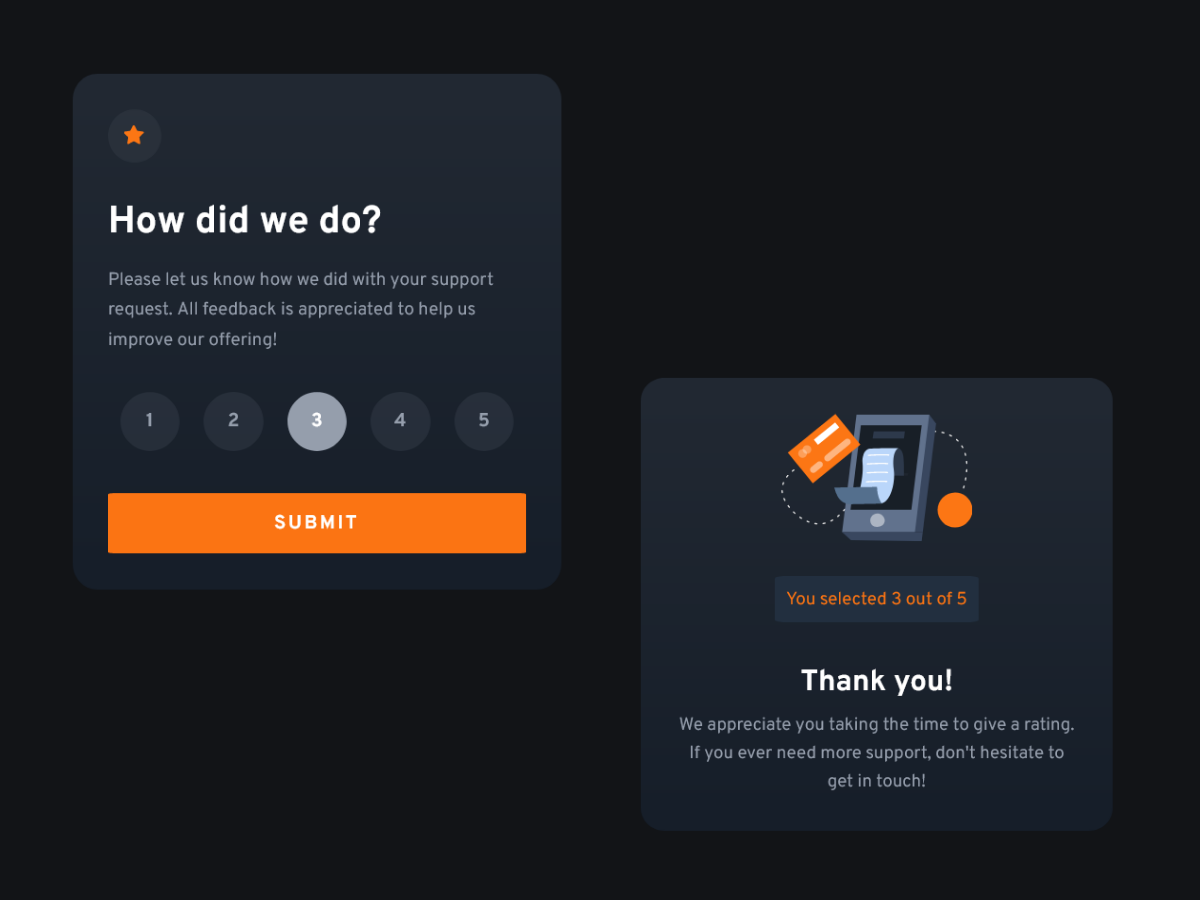
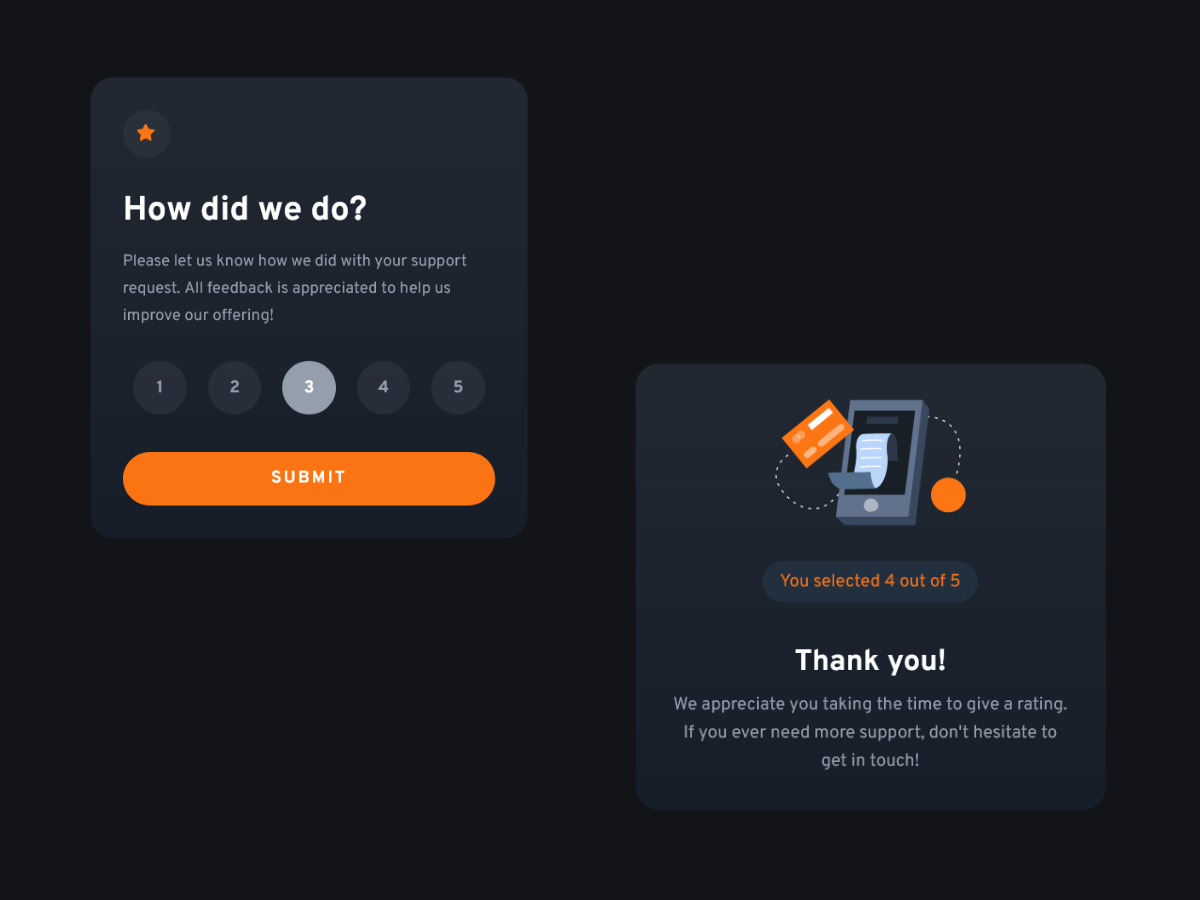
changed border radius of buttons

Changed region(s): [[0.0617, 0.0622, 0.4933, 0.6222], [0.5242, 0.4044, 0.925, 0.6844], [0.555, 0.7156, 0.8942, 0.8711]]

diff --git a/app.js b/app.js
@@ -1,6 +1,6 @@
 var ratingNumber = document.getElementsByClassName('number');
 var ratingNumberArray = Array.from(ratingNumber);//converting html collection to array
-var SELECTED_RATING;
+var SELECTED_RATING=3;
 var selectedStar = document.getElementById("user-rating");
 var submitButton = document.getElementById("submit");
 
@@ -17,7 +17,6 @@ function ratingCalc(event)
 submitButton.addEventListener("click", function(){
     document.getElementById("box1").hidden = false;
     document.getElementById("box").hidden = true;
-
 }, false);
 
 

diff --git a/styles.scss b/styles.scss
@@ -100,7 +100,7 @@ a
     color: $white;
     font-weight: 700;
     letter-spacing: 2px;
-    border-radius: 2%;
+    border-radius: 30px;
     display: block;
     width: 100%;
     padding: 15px 0;
@@ -137,8 +137,8 @@ a:hover
   background-color: #222f3f;
   width: fit-content;
   margin: auto;
-  padding: 10px;
-  border-radius: 5%;
+  padding: 8px 15px;
+  border-radius: 20px;
 }
 
 #h2{

diff --git a/styles.css b/styles.css
@@ -88,7 +88,7 @@ a {
   color: hsl(0deg, 0%, 100%);
   font-weight: 700;
   letter-spacing: 2px;
-  border-radius: 2%;
+  border-radius: 30px;
   display: block;
   width: 100%;
   padding: 15px 0;
@@ -126,8 +126,8 @@ a:hover {
   width: -moz-fit-content;
   width: fit-content;
   margin: auto;
-  padding: 10px;
-  border-radius: 5%;
+  padding: 8px 15px;
+  border-radius: 20px;
 }
 
 #h2 {
